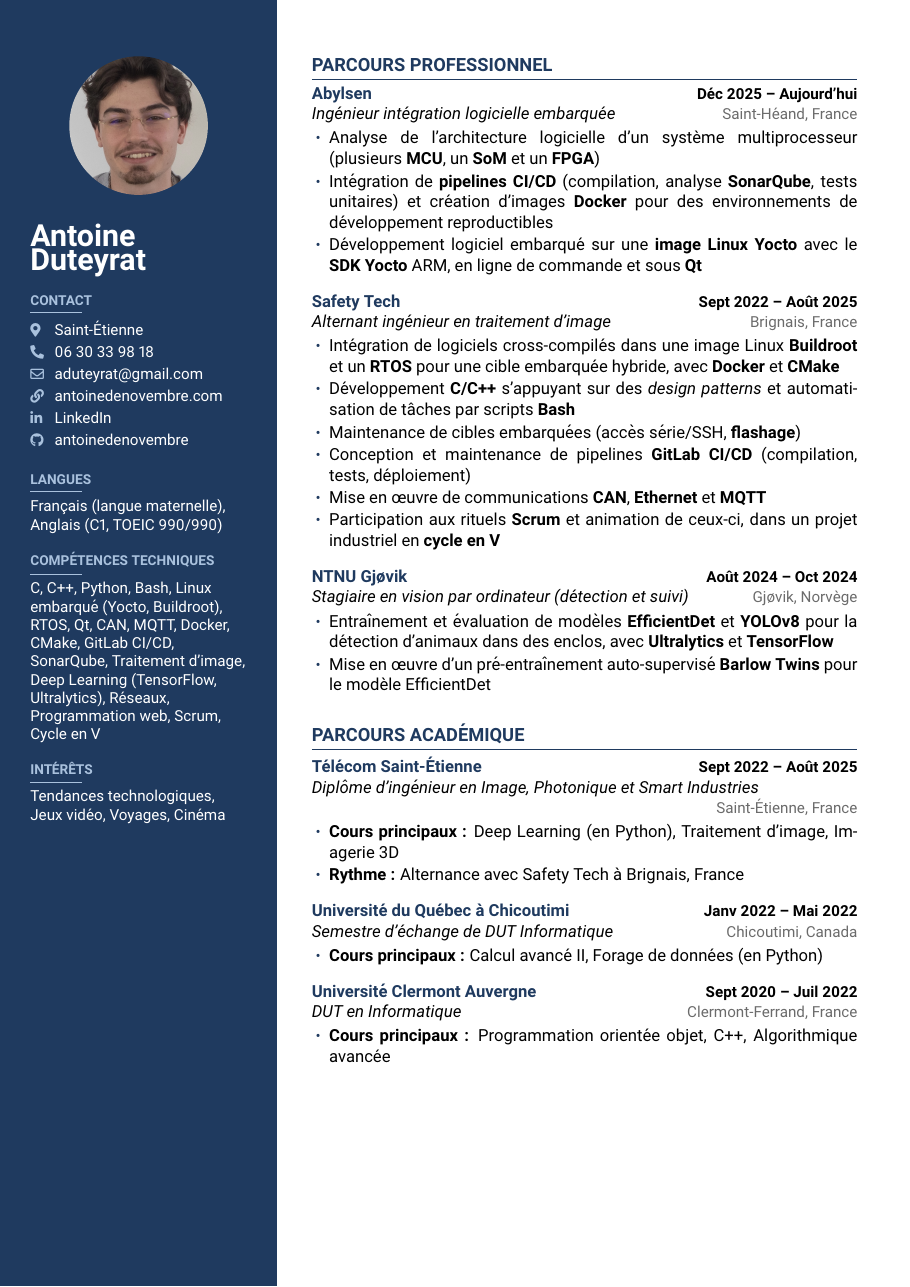
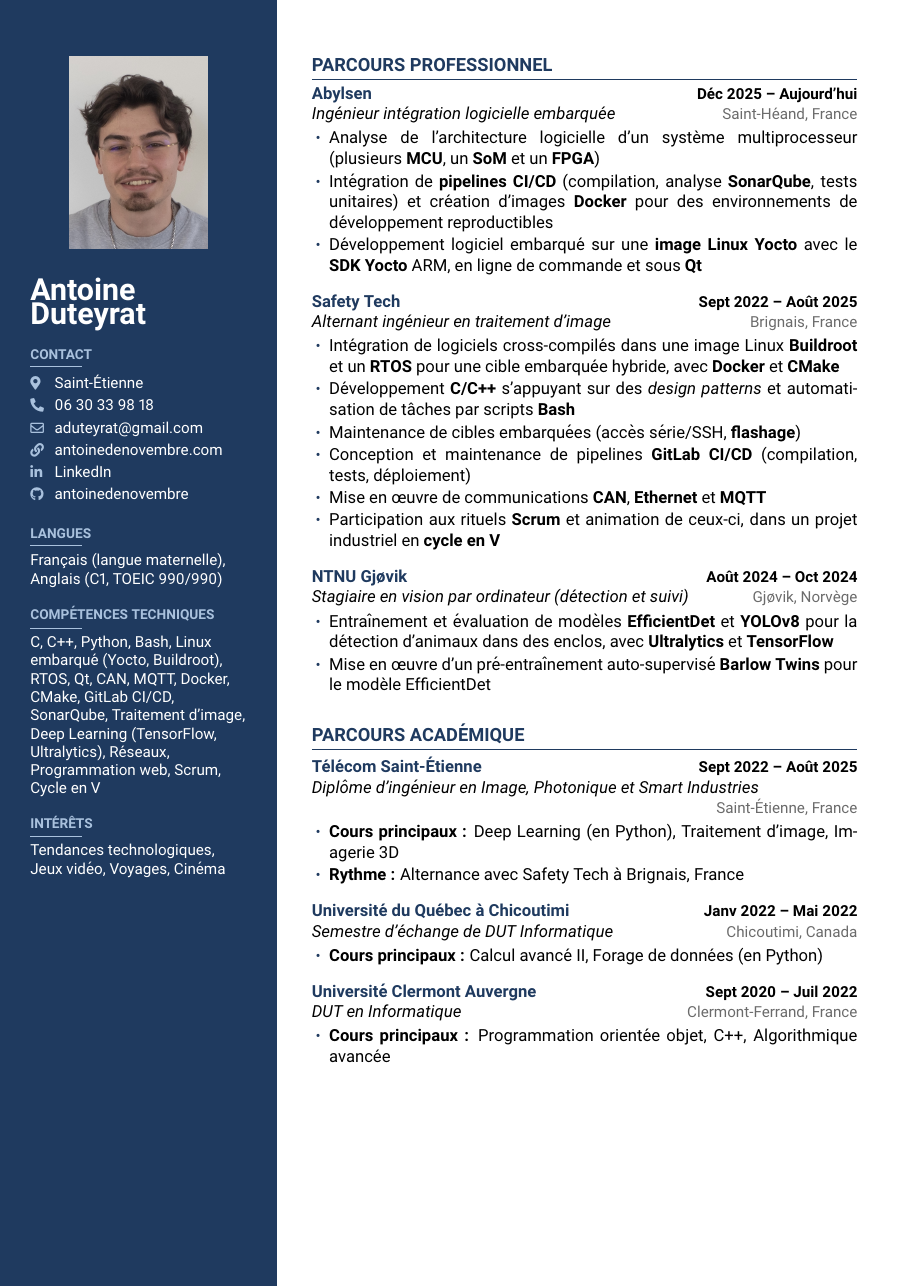
feat(styles): drop the minimal style, keep the sidebar photo rectangular
Claude-Session: https://claude.ai/code/session_01284JWUD7nUXXLSo26Z5ehE

Changed region(s): [[0.0308, 0.0311, 0.2769, 0.6838]]

diff --git a/src/styles/sidebar/header_with_image.tex b/src/styles/sidebar/header_with_image.tex
@@ -1,14 +1,11 @@
 % ======================================================================
 % ==================== SIDEBAR HEADER WITH PHOTO =======================
 % ======================================================================
-% Round photo at the top of the sidebar, see style.tex
+% Photo (original rectangular format) at the top of the sidebar, see style.tex
 
 \renewcommand{\sidebarphoto}{%
     \begin{center}
-        \begin{tikzpicture}
-            \clip (0,0) circle (1.6cm);
-            \node[inner sep=0pt] at (0,0) {\includegraphics[width=3.2cm]{\ResumeRoot assets/photo.jpg}};
-        \end{tikzpicture}
+        \includegraphics[width=3.2cm]{\ResumeRoot assets/photo.jpg}
     \end{center}
     \vspace{0.6em}
 }

diff --git a/README.md b/README.md
@@ -5,7 +5,7 @@
 [![Pages](https://img.shields.io/badge/pages-live-brightgreen)](https://antoinedenovembre.github.io/resume/)
 [![ATS-friendly](https://img.shields.io/badge/ATS--friendly-%E2%9C%93-success)](https://github.com/antoinedenovembre/resume/releases/latest/download/resume-no-image-en.pdf)
 
-A clean, modular LaTeX resume with multilingual support (French & English) and four visual styles, optimized for both human readability and ATS parsing. Automatically compiled with GitHub Actions and updated on every push.
+A clean, modular LaTeX resume with multilingual support (French & English) and three visual styles, optimized for both human readability and ATS parsing. Automatically compiled with GitHub Actions and updated on every push.
 
 ## Quick Access
 
@@ -18,7 +18,7 @@ A clean, modular LaTeX resume with multilingual support (French & English) and f
 - **All versions:** [Latest Release](https://github.com/antoinedenovembre/resume/releases/latest)
 
 ### Download a style (zip with the 4 variants: with/without photo × FR/EN)
-[Default](https://github.com/antoinedenovembre/resume/releases/latest/download/resume-default.zip) · [Tech](https://github.com/antoinedenovembre/resume/releases/latest/download/resume-tech.zip) · [Minimal](https://github.com/antoinedenovembre/resume/releases/latest/download/resume-minimal.zip) · [Sidebar](https://github.com/antoinedenovembre/resume/releases/latest/download/resume-sidebar.zip)
+[Default](https://github.com/antoinedenovembre/resume/releases/latest/download/resume-default.zip) · [Tech](https://github.com/antoinedenovembre/resume/releases/latest/download/resume-tech.zip) · [Sidebar](https://github.com/antoinedenovembre/resume/releases/latest/download/resume-sidebar.zip)
 
 ## Editing on Mobile (or anywhere)
 
@@ -39,22 +39,17 @@ Go to **[Actions → Compile Resume](../../actions/workflows/compile.yml)** and 
 
 Every style is generated from the same `data/resume.yml`, in 4 variants (with/without photo × FR/EN). Previews below: French, with photo.
 
-| Default | Tech |
-|:---:|:---:|
-| <img src="assets/previews/preview_default.png" alt="Default style" width="100%"/> | <img src="assets/previews/preview_tech.png" alt="Tech style" width="100%"/> |
-| Original layout, icons, blue accents | Times font, ruled uppercase sections, date column on the left |
-
-| Minimal | Sidebar |
-|:---:|:---:|
-| <img src="assets/previews/preview_minimal.png" alt="Minimal style" width="100%"/> | <img src="assets/previews/preview_sidebar.png" alt="Sidebar style" width="100%"/> |
-| One airy column, sans-serif, gray letter-spaced titles | Colored left column with photo, contacts and skills |
+| Default | Tech | Sidebar |
+|:---:|:---:|:---:|
+| <img src="assets/previews/preview_default.png" alt="Default style" width="100%"/> | <img src="assets/previews/preview_tech.png" alt="Tech style" width="100%"/> | <img src="assets/previews/preview_sidebar.png" alt="Sidebar style" width="100%"/> |
+| Original layout, icons, blue accents | Times font, ruled uppercase sections, date column on the left | Colored left column with photo, contacts and skills |
 
 ## How it works
 
 ```mermaid
 flowchart LR
     A["Edit\ndata/resume.yml"] -->|git push| B["GitHub Actions"]
-    B --> C["Compile 16 PDFs\n4 styles × EN/FR × photo/no-photo"]
+    B --> C["Compile 12 PDFs\n3 styles × EN/FR × photo/no-photo"]
     C --> D["Generate PNG previews\n→ commit to assets/previews/"]
     C --> E["Publish GitHub Release\none zip per style"]
     D --> F["GitHub Pages\nauto-updated"]

diff --git a/DEVELOPMENT.md b/DEVELOPMENT.md
@@ -15,7 +15,7 @@ This document contains detailed information for developers who want to work on o
 # Generate LaTeX content files from the YAML data (optional; use if you want to generate content without building PDFs)
 make generate
 
-# Build all 16 PDFs: 4 styles × with/without photo × EN/FR (recommended)
+# Build all 12 PDFs: 3 styles × with/without photo × EN/FR (recommended)
 make all
 
 # Build all English versions (every style, with and without photo)
@@ -27,7 +27,6 @@ make fr
 # Build every variant of one style
 make default
 make tech
-make minimal
 make sidebar
 
 # Build a specific variant: <style>_<with|no>_image_<en|fr>
@@ -60,8 +59,8 @@ PDFs are written next to their root file: `build/<style>/resume_<variant>.pdf`.
 
 Every push to the `main` branch automatically:
 
-1. Compiles all 16 resume versions (4 styles × English/French × with/without photo), one CI job each
-2. Creates a "latest" release with one zip per style (`resume-default.zip`, `resume-tech.zip`, `resume-minimal.zip`, `resume-sidebar.zip`) plus the default-style PDFs used by the README and site links
+1. Compiles all 12 resume versions (3 styles × English/French × with/without photo), one CI job each
+2. Creates a "latest" release with one zip per style (`resume-default.zip`, `resume-tech.zip`, `resume-sidebar.zip`) plus the default-style PDFs used by the README and site links
 3. Regenerates the previews in `assets/previews/` (one per style, plus the FR/EN previews used by the site)
 4. Stores artifacts for 30 days
 
@@ -70,7 +69,7 @@ Every push to the `main` branch automatically:
 ```
 resume/
 ├── .github/workflows/
-│   ├── compile.yml            # Builds the 16 PDFs (matrix: style × variant)
+│   ├── compile.yml            # Builds the 12 PDFs (matrix: style × variant)
 │   ├── release.yml            # Publishes "latest" (one zip per style) and archives the previous one
 │   └── preview.yml            # Regenerates assets/previews/ after a release
 ├── assets/
@@ -79,7 +78,6 @@ resume/
 ├── build/
 │   ├── default/resume_{with,no}_image_{en,fr}.tex   # Root files, one folder per style
 │   ├── tech/…
-│   ├── minimal/…
 │   └── sidebar/…
 ├── data/
 │   └── resume.yml             # Single data file for all languages (EN + FR)
@@ -116,7 +114,6 @@ resume/
 |-------|------|-------|
 | `default` | Original layout, icons, blue links | `style.tex` is empty: the base rendering is used as is |
 | `tech` | Times font, ruled uppercase sections, date column on the left | Uses an entry's `short_name` (e.g. `UQAC`) when the heading would not fit on one line |
-| `minimal` | Source Sans, gray letter-spaced titles, no rules or icons | Round photo on the right of the name |
 | `sidebar` | Roboto, colored left column with photo, contacts and skills | Skills are collected while the content is read and drawn in the sidebar at shipout, so the resume must stay on one page |
 
 ### Adding a style
@@ -159,7 +156,7 @@ resume/
 - `needspace` - Intelligent page break management
 
 ### Style-specific Packages
-- `newtxtext` (tech), `sourcesanspro` and `microtype` (minimal), `roboto` (sidebar), `xstring` (minimal and sidebar)
+- `newtxtext` (tech), `roboto` and `xstring` (sidebar)
 
 ### Conditional Packages (Photo Version Only)
 - `graphicx` - Image inclusion for profile photo

diff --git a/CLAUDE.md b/CLAUDE.md
@@ -1,7 +1,7 @@
 # Resume Project — Claude Code Guide
 
 ## What this project is
-Data-driven LaTeX resume generator producing 16 PDFs (4 styles: default/tech/minimal/sidebar × with/without photo × EN/FR) from a single YAML source.
+Data-driven LaTeX resume generator producing 12 PDFs (3 styles: default/tech/sidebar × with/without photo × EN/FR) from a single YAML source.
 
 ## Architecture
 ```
@@ -12,7 +12,7 @@ src/
   styles/<style>/        ← style.tex (overrides), header_with_image.tex, header_no_image.tex
   content/               ← GENERATED (gitignored): personal.tex, resume_content_{en,fr}.tex
 build/
-  <style>/resume_{with,no}_image_{en,fr}.tex ← root files (16, committed); \ResumeRoot = ../../
+  <style>/resume_{with,no}_image_{en,fr}.tex ← root files (12, committed); \ResumeRoot = ../../
   <style>/resume_*.pdf   ← compiled output (gitignored)
 ```
 
@@ -22,7 +22,7 @@ build/
 ## Build
 ```bash
 make              # build all 8 variants
-make default / make tech / make minimal / make sidebar  # build one style
+make default / make tech / make sidebar  # build one style
 make tech_no_image_fr     # build one variant
 make en / make fr # build one language
 make generate     # YAML → LaTeX only (no compilation)
@@ -67,13 +67,12 @@ Inline formatting in YAML values: `**bold**` → `\textbf{}`, `_italic_` → `\t
 |-------|------|
 | `default` | original layout, icons, blue links (empty override) |
 | `tech` | Times, uppercase ruled sections, date column on the left |
-| `minimal` | Source Sans, gray letter-spaced titles, no rules/icons |
 | `sidebar` | Roboto, colored left column (photo, contacts, skills drawn at shipout: must stay 1 page) |
 
 Adding a style: see DEVELOPMENT.md ("Adding a style"): style folder, 4 roots, `STYLES` in Makefile, CI matrix and the style loops in release/preview workflows.
 
 ## CI/CD
-- **compile** job: matrix over 4 styles × 4 variants, each uploads `build/<style>/resume_<variant>.pdf` as artifact `pdf-<style>_<variant>`
+- **compile** job: matrix over 3 styles × 4 variants, each uploads `build/<style>/resume_<variant>.pdf` as artifact `pdf-<style>_<variant>`
 - **release** job: publishes `resume-<style>.zip` (4 PDFs each) plus the default-style PDFs used by README/site links
 - **preview** job: after a release, regenerates `assets/previews/preview_<style>.png` (FR with photo) and `preview_{en,fr}.png`
 - Triggers on push to `main`: replaces the `latest` release and archives the previous one as a release tagged `dd.mm.yyyy`

diff --git a/CHANGELOG.md b/CHANGELOG.md
@@ -2,7 +2,7 @@
 All notable changes to this project will be documented in this file.
 
 ## [Unreleased]
-- Four resume styles built from the same YAML: `default` (original layout), `tech` (Times, date column on the left), `minimal` (airy sans-serif) and `sidebar` (colored left column)
+- Three resume styles built from the same YAML: `default` (original layout), `tech` (Times, date column on the left) and `sidebar` (colored left column)
 - Sources reorganized per style (`src/styles/<style>/`, `build/<style>/`); the generator now emits layout-neutral macros
 - Optional `short_name` for entries (used by the tech style when a heading is too long)
 - Releases ship one zip per style; archived releases are tagged `dd.mm.yyyy`
